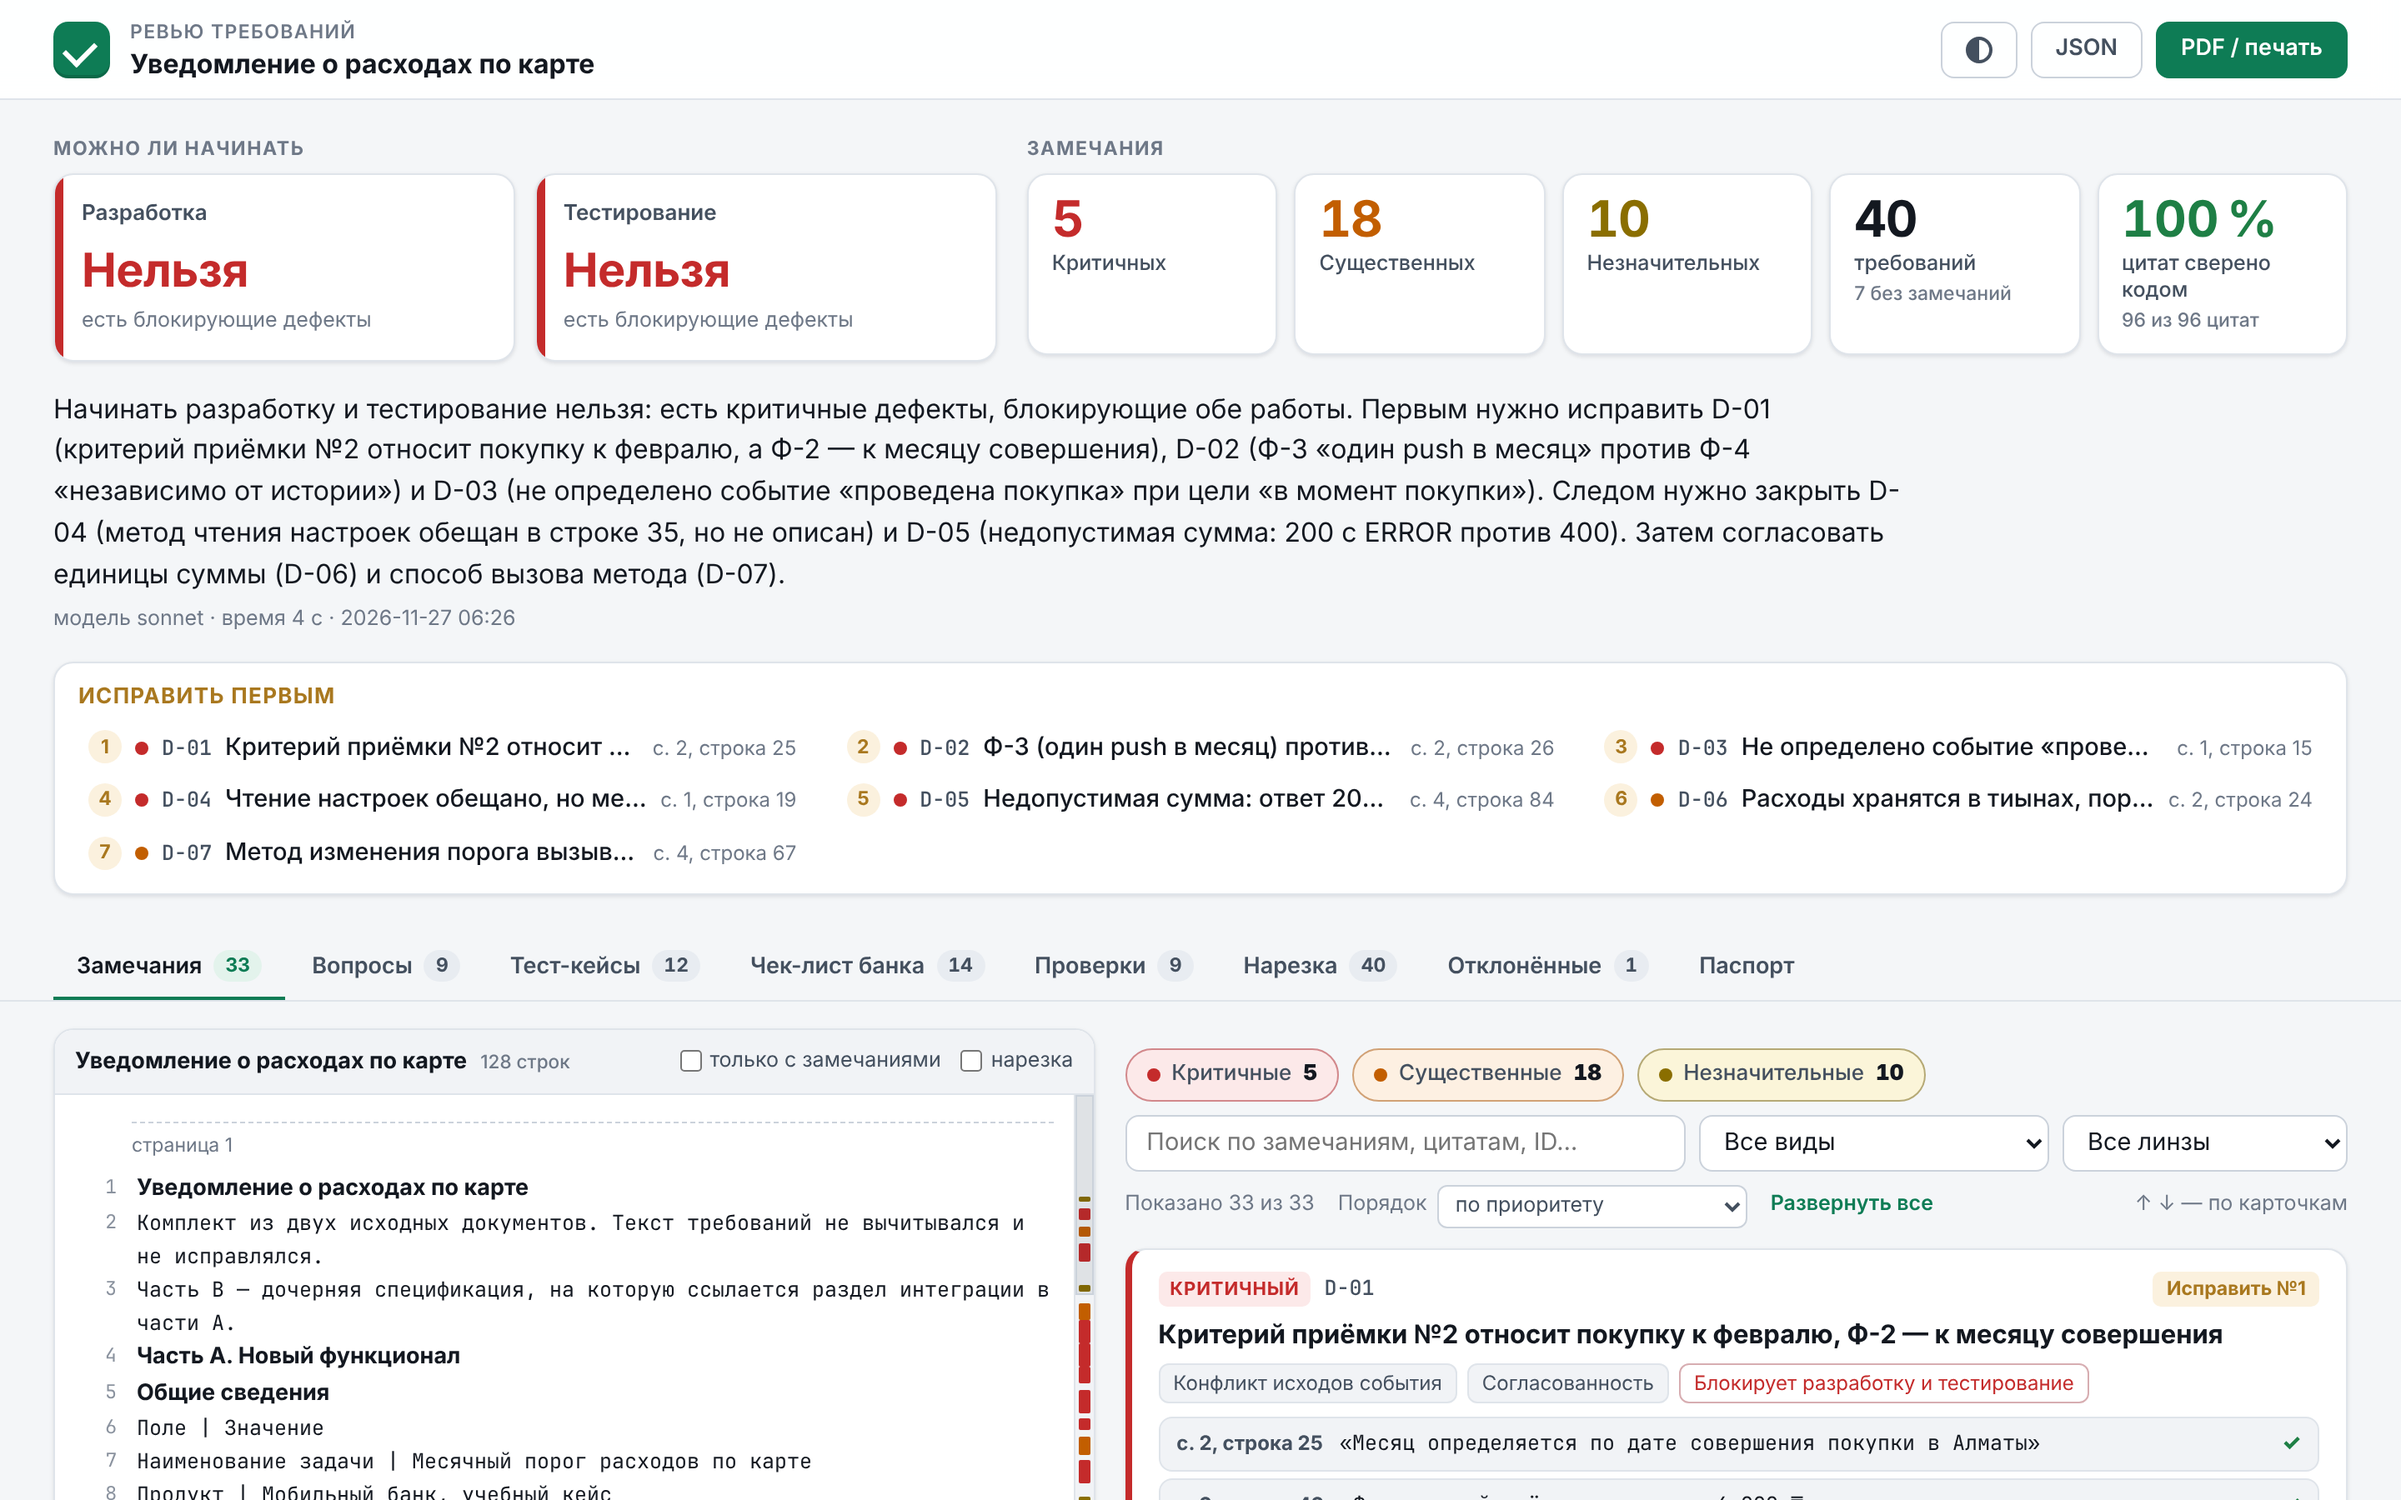
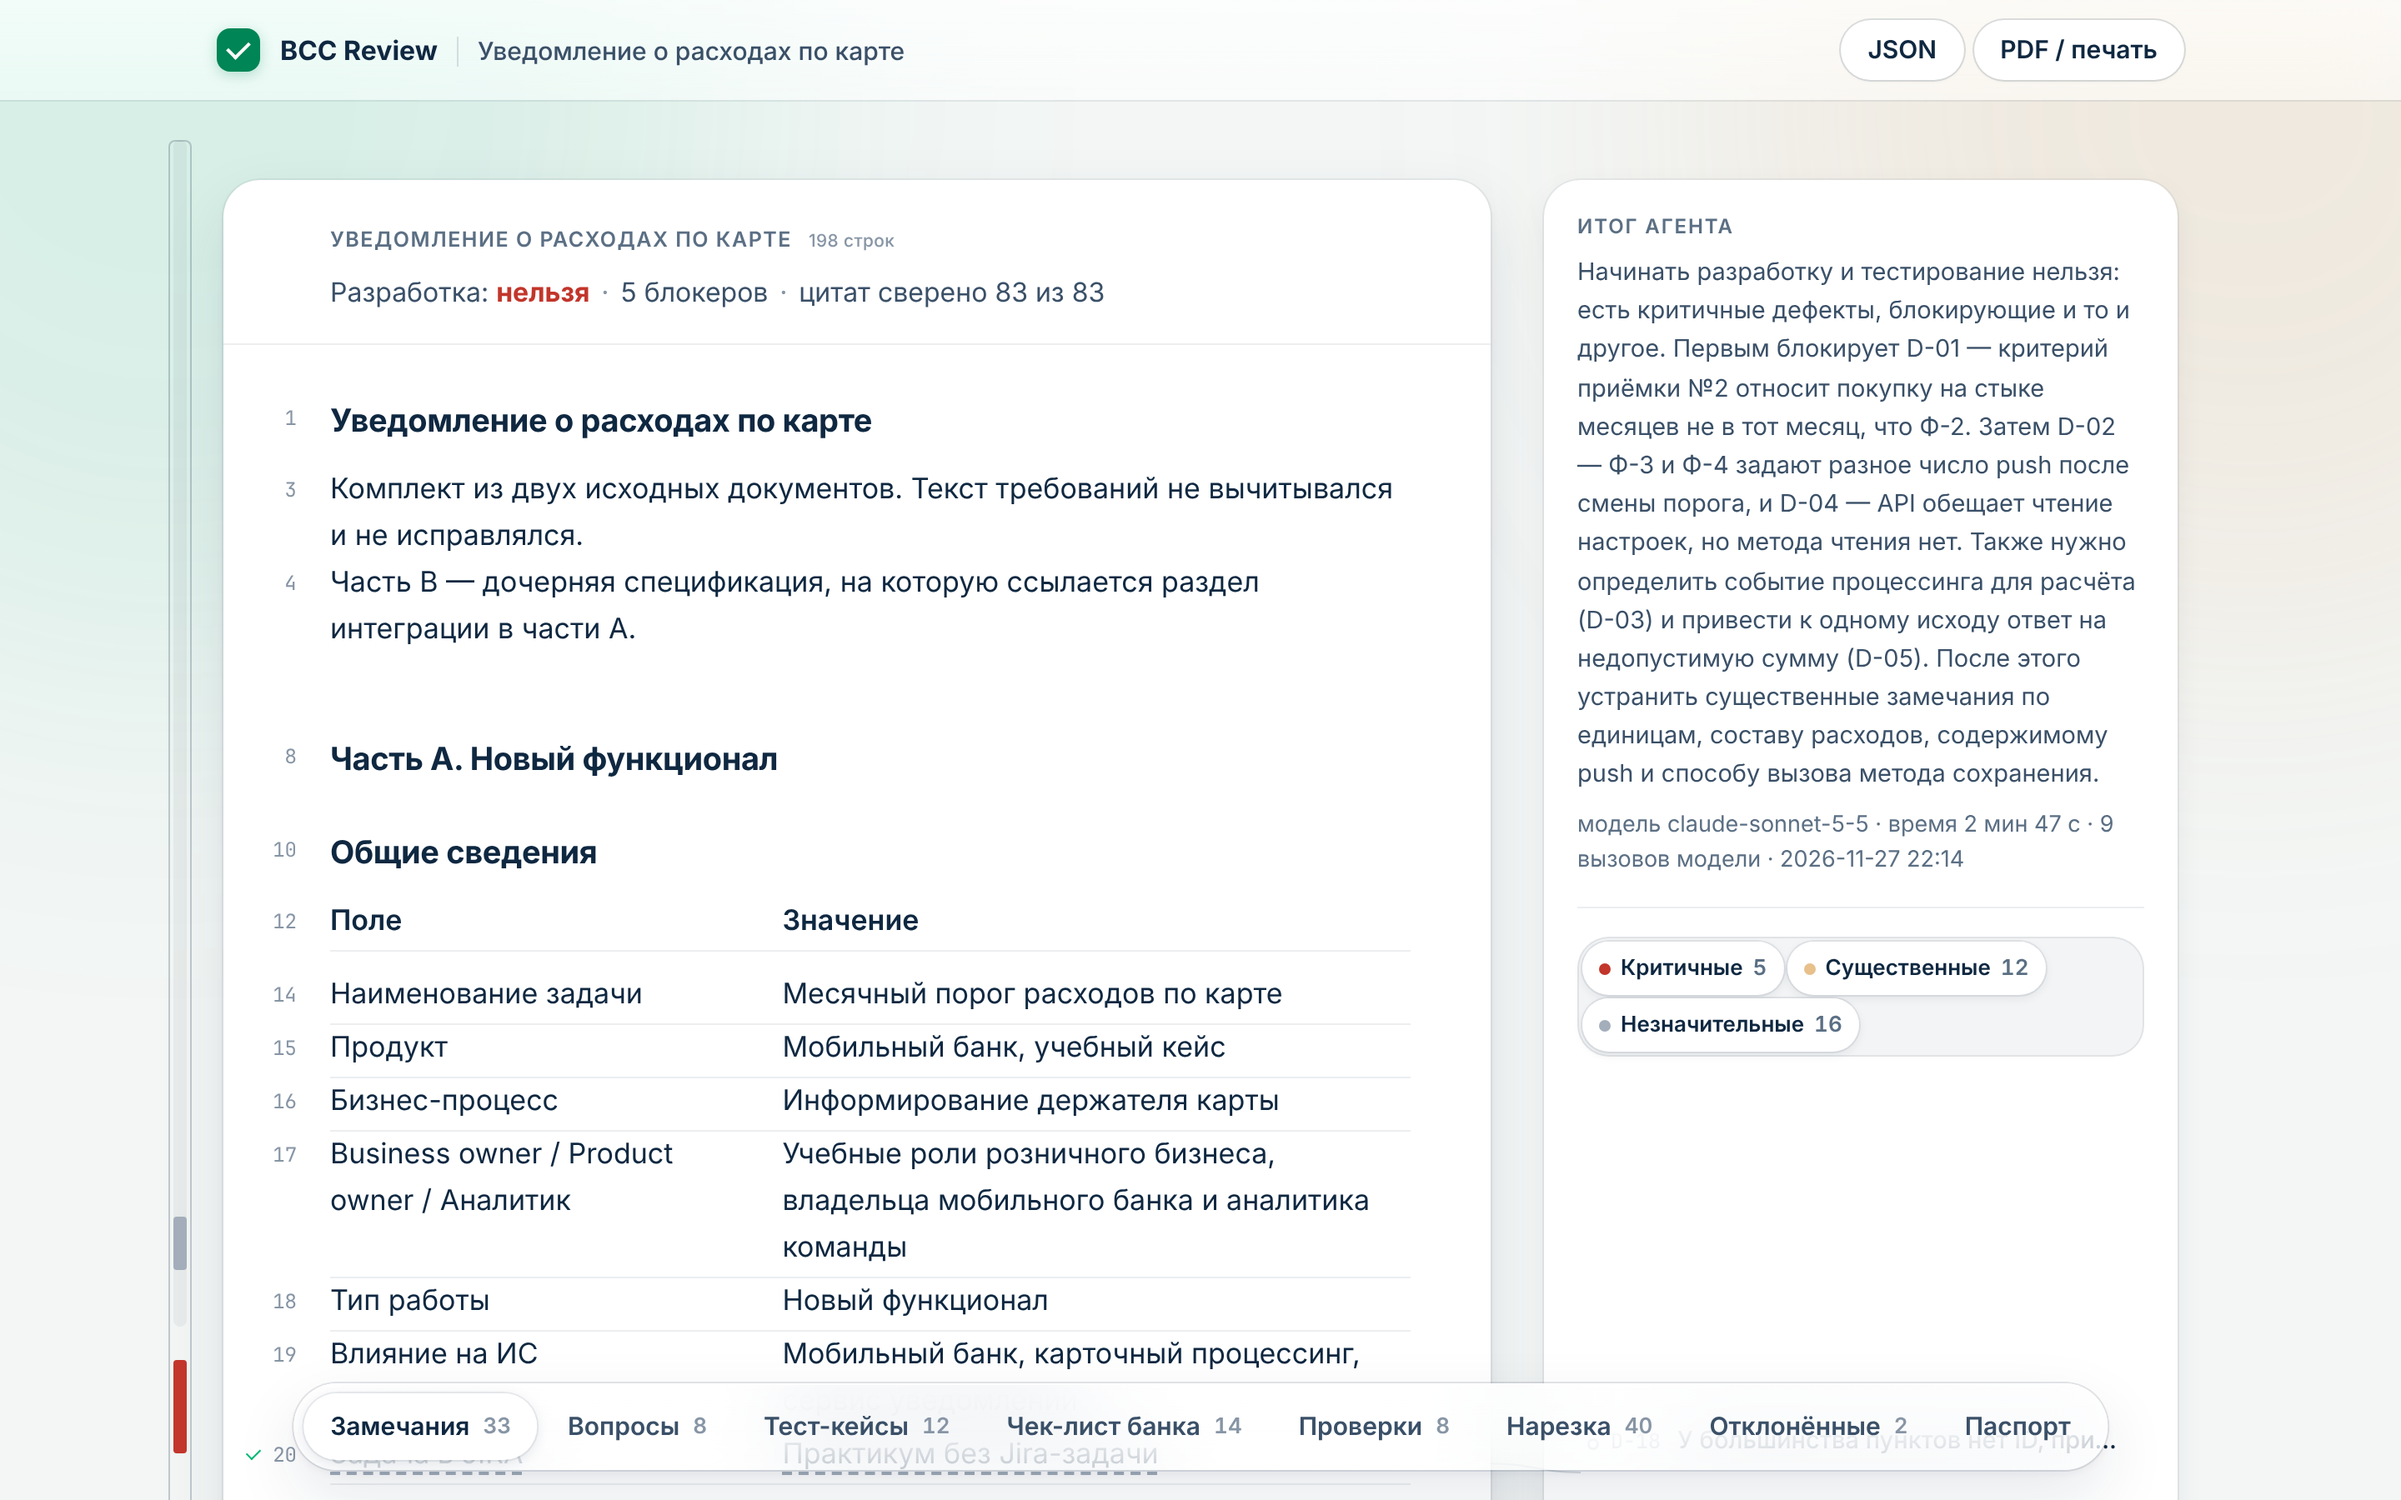
v2 №11: README — новые скриншоты светлого сайта: знакомство с BCC AI, сайт без ключа, первый экран HTML-отчёта
Claude-Session: https://claude.ai/code/session_01VT8Pqg79A42y4qxSdi8TJx

diff --git a/presentation/img/SOURCE.md b/presentation/img/SOURCE.md
@@ -1,13 +1,18 @@
 # Откуда картинки
 
 * `title_final.png` — финальный кадр титульного слайда STUPITS (`presentation/title.html#final`).
-* `report_*.png`, `web_*.png` — скриншоты настоящего прогона агента, не макет (Chromium, 1440×900, масштаб 2):
+* **Переснято 27.11 ≈22:30 (Астана) на сдаче `main` (код `0a30c67a`, светлый интерфейс):** `web_welcome.png` —
+  знакомство с BCC AI; `web_home.png` — сайт без ключа с готовым отчётом `reports/requirements.json` (sonnet,
+  33 замечания); `report_first.png` — первый экран `reports/requirements.html`. Chromium, 1440×900, масштаб 2,
+  сайт `python -m bcc_review.v2.web` без ключа. Остальные `report_*.png` и `web_*.png` ниже — ранний вид до
+  светлого интерфейса (27.11 ≈06:35).
+* `report_*.png`, `web_*.png` (ранний вид) — скриншоты настоящего прогона агента, не макет (Chromium, 1440×900, масштаб 2):
   веб-демо `python -m bcc_review.v2.web` (сборка `0d09654` = `bcc/v2` 4bbb299 + №14), вход
   `release/input/requirements.pdf`, провайдер `claude_cli`, модель sonnet. Ответы модели — из кэша живого прогона
   того же PDF 27.11 ≈06:20 (Астана): 5 мин 24 с, 9 вызовов, 33 дефекта (5 критичных, 18 существенных,
   10 незначительных), цитат сверено 96 из 96. Те же прогоны — в видео `presentation/demo.mp4`. Сняты 27.11 ≈06:35:
   `node presentation/shots.cjs report.html presentation/img http://127.0.0.1:8014/ release/input/requirements.pdf claude_cli sonnet`.
-  * `report_first.png` — первый экран HTML-отчёта: вердикт, числа, «исправить первым»;
+  * `report_first.png` — первый экран HTML-отчёта (переснят, см. выше);
   * `report_card.png` — карточка критичного дефекта, документ прокручен к цитатам (режим фокуса);
   * `report_checklist.png`, `report_questions.png` — вкладки «Чек-лист банка» и «Вопросы»;
   * `report_dark.png` — тёмная тема;

diff --git a/README.md b/README.md
@@ -141,7 +141,17 @@ python -m bcc_review verify reports/my/requirements.json release/input/requireme
 
 ## Пример первого экрана
 
-![Первый экран HTML-отчёта: вердикт, число замечаний, «Исправить первым»](presentation/img/report_first.png)
+Первый запуск `./start.sh`: BCC AI просит ключ модели, можно продолжить без ключа.
+
+![Знакомство с BCC AI: ключ Gemini или Claude, «Продолжить без ключа»](presentation/img/web_welcome.png)
+
+Сайт без ключа: готовые отчёты сдачи и проверка своего документа на одном столе.
+
+![Сайт BCC Review: готовые отчёты, лист официального ТЗ, 33 замечания и вопросы владельцу](presentation/img/web_home.png)
+
+Первый экран HTML-отчёта [`reports/requirements.html`](reports/requirements.html): вердикт, числа, итог агента.
+
+![Первый экран HTML-отчёта: вердикт, число замечаний, итог агента](presentation/img/report_first.png)
 
 В терминале после прогона (здесь `--provider mock`: записанные ответы живого прогона Sonnet по документу кейса):
 
